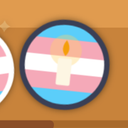
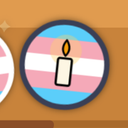
Outline the Day of Remembrance candle in black
The candle and its flame get a black outline, so they stand out on the
trans flag's light stripes. The sticker's picture in docs/ is retaken.

Claude-Session: https://claude.ai/code/session_01LTkkJK6UvKNS8Jkgg4nxkB

Changed region(s): [[0.4062, 0.2812, 0.5938, 0.6875]]

diff --git a/src/ui/hero.ts b/src/ui/hero.ts
@@ -246,14 +246,29 @@ function transSymbol(): SVGElement {
   )
 }
 
-/** A candle with a quiet glow, for the Day of Remembrance. */
+/** A candle with a quiet glow, for the Day of Remembrance, outlined in black to stand out. */
 function candle(): SVGElement {
   return svg(
     'g',
     {},
     svg('circle', { class: 'candle-glow', cx: 0, cy: -0.45, r: 0.5, fill: '#ffd36b' }),
-    rect(-0.22, -0.2, 0.44, 0.85, '#fdf6e3', 0.06),
-    svg('path', { d: 'M0 -0.78Q0.2 -0.5 0 -0.28Q-0.2 -0.5 0 -0.78Z', fill: '#f59e0b' }),
+    svg('rect', {
+      x: -0.22,
+      y: -0.2,
+      width: 0.44,
+      height: 0.85,
+      rx: 0.06,
+      fill: '#fdf6e3',
+      stroke: '#000000',
+      'stroke-width': 0.07,
+    }),
+    svg('path', {
+      d: 'M0 -0.78Q0.2 -0.5 0 -0.28Q-0.2 -0.5 0 -0.78Z',
+      fill: '#f59e0b',
+      stroke: '#000000',
+      'stroke-width': 0.06,
+      'stroke-linejoin': 'round',
+    }),
   )
 }
 
